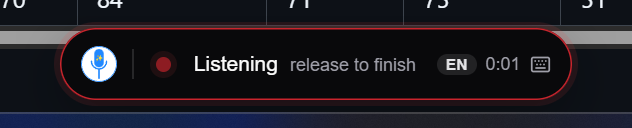
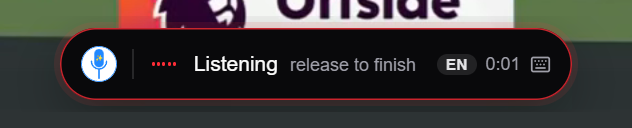
Add the live level meter to the dictation pill (Prompt 4)
ROADMAP "Animated recording indicator". In-process only: no sockets,
no new crates, crate features or Tauri plugins.

- cmd/audio.rs: the capture callback records the loudest absolute
  sample of each buffer into a static AtomicU32 (fetch_max on the f32
  bits, so nothing is lost between reads) for every recording, not
  only live capture. Allocation-free, never blocks.
- start_record spawns a tauri::async_runtime task that every 66 ms
  drains the peak, applies decay_level (max(peak, level * 0.8),
  clamped to 0..1) and emits "dictation-indicator-level" { level } to
  the dictation-indicator window only. Nothing is emitted when the
  indicator is disabled or its window is missing; the task stops on
  stop_record. Four unit tests cover the decay.
- Pill: five bars in the 20 px left slot while recording, heights
  from meterBarHeights (multipliers 0.6/0.85/1/0.85/0.6, rest below
  0.02 at 3 px, centre bar 16 px at full level), 100 ms height
  transition, red ring unchanged. The level resets on every status or
  session change so a new recording never inherits the previous one's
  level. prefers-reduced-motion keeps the pulsing dot instead. vitest
  covers the bar mapping.
- Screenshots: meter at rest, mid (0.45) and loud (0.95) from
  synthetic levels, plus the three recording states re-captured with
  the meter in place of the dot.

diff --git a/desktop/src/components/dictation-indicator.tsx b/desktop/src/components/dictation-indicator.tsx
@@ -4,7 +4,7 @@ import { AlertTriangle, Check, Clipboard, Keyboard, LoaderCircle } from 'lucide-
 import { useEffect, useRef, useState } from 'react'
 import logoUrl from '../../../design/logo.svg?url'
 import { getDictationIndicatorState, type DictationIndicatorState } from '~/lib/dictation-indicator'
-import { badgeText, pillContent, type PillContent, type PillLeft, type PillRing } from '~/lib/indicator-content'
+import { badgeText, isMeterResting, meterBarHeights, pillContent, type PillContent, type PillLeft, type PillRing } from '~/lib/indicator-content'
 
 // The floating status pill (docs/dictation-indicator-plan.md §4). This
 // component only renders what `pillContent` returns — all wording and slot
@@ -52,7 +52,24 @@ const RING_CLASS: Record<PillRing, string> = {
 	amber: 'ring-amber-400/80 shadow-[0_12px_35px_rgba(0,0,0,0.32),0_0_0_4px_rgba(251,191,36,0.12)]',
 }
 
-function LeftSlot({ kind, ring, reducedMotion }: { kind: PillLeft; ring: PillRing; reducedMotion: boolean }) {
+/**
+ * Five bars driven by the Rust level event (~15 Hz). Heights come from
+ * `meterBarHeights`; a 100 ms transition smooths the steps. At rest (below
+ * the threshold) the bars sit short and still.
+ */
+function Meter({ level }: { level: number }) {
+	const heights = meterBarHeights(level)
+	const resting = isMeterResting(level)
+	return (
+		<span className="flex h-4 items-center gap-[1.5px]" aria-hidden="true" data-level={level.toFixed(2)} data-resting={resting}>
+			{heights.map((height, index) => (
+				<span key={index} className="w-0.5 rounded-full bg-red-500 transition-[height] duration-100 ease-out" style={{ height: `${height}px` }} />
+			))}
+		</span>
+	)
+}
+
+function LeftSlot({ kind, ring, reducedMotion, level }: { kind: PillLeft; ring: PillRing; reducedMotion: boolean; level: number }) {
 	const tone = { grey: 'text-zinc-400', green: 'text-emerald-400', red: 'text-red-400', blue: 'text-blue-400', amber: 'text-amber-400' }[ring]
 	switch (kind) {
 		case 'spinner':
@@ -61,13 +78,16 @@ function LeftSlot({ kind, ring, reducedMotion }: { kind: PillLeft; ring: PillRin
 			return <Check className={`h-4 w-4 ${tone}`} strokeWidth={2.5} />
 		case 'warning':
 			return <AlertTriangle className={`h-4 w-4 ${tone}`} />
+		case 'meter':
+			// Reduced motion: no meter, the pulsing dot instead (§4).
+			if (!reducedMotion) return <Meter level={level} />
+			return <span className="h-2.5 w-2.5 animate-pulse rounded-full bg-red-500 shadow-[0_0_0_4px_rgba(239,68,68,0.18)]" />
 		case 'dot':
-			// The pulsing dot is also the reduced-motion fallback for the meter (§4).
 			return <span className="h-2.5 w-2.5 animate-pulse rounded-full bg-red-500 shadow-[0_0_0_4px_rgba(239,68,68,0.18)]" />
 	}
 }
 
-function Layer({ content, reducedMotion, fadingSub }: { content: PillContent; reducedMotion: boolean; fadingSub: string | null }) {
+function Layer({ content, reducedMotion, fadingSub, level }: { content: PillContent; reducedMotion: boolean; fadingSub: string | null; level: number }) {
 	const right = content.right
 	// The hint is shown after a short label ("Listening"); when space is
 	// tight the hint truncates, never the label. Long labels (error text)
@@ -76,7 +96,7 @@ function Layer({ content, reducedMotion, fadingSub }: { content: PillContent; re
 	return (
 		<>
 			<span className="flex w-5 shrink-0 items-center justify-center">
-				<LeftSlot kind={content.left} ring={content.ring} reducedMotion={reducedMotion} />
+				<LeftSlot kind={content.left} ring={content.ring} reducedMotion={reducedMotion} level={level} />
 			</span>
 			<span className="flex min-w-0 items-baseline gap-2 overflow-hidden">
 				<span dir="auto" className={sub ? 'shrink-0' : 'truncate'}>
@@ -112,6 +132,8 @@ export default function DictationIndicator() {
 	const [view, setView] = useState<View | null>(null)
 	const [now, setNow] = useState(() => performance.now())
 	const [hiding, setHiding] = useState(false)
+	// Microphone level 0..1 from Rust (~15 Hz while recording).
+	const [level, setLevel] = useState(0)
 	// Previous content kept on screen for FADE_MS during a cross-fade.
 	const [leaving, setLeaving] = useState<{ key: string; content: PillContent } | null>(null)
 	const lastKeyRef = useRef<string | null>(null)
@@ -142,6 +164,10 @@ export default function DictationIndicator() {
 			log('hide event received')
 			setHiding(true)
 		})
+		// Level meter feed from cmd/audio.rs, sent to this window only.
+		const unlistenLevel = listen<{ level: number }>('dictation-indicator-level', ({ payload }) => {
+			setLevel(typeof payload?.level === 'number' ? payload.level : 0)
+		})
 		unlistenState
 			.then(() => {
 				log('listen registered; fetching initial state')
@@ -155,12 +181,22 @@ export default function DictationIndicator() {
 		return () => {
 			unlistenState.then((stop) => stop())
 			unlistenHide.then((stop) => stop())
+			unlistenLevel.then((stop) => stop())
 		}
 	}, [])
 
 	// Clock for elapsed time and "Transcribing N s…": requestAnimationFrame
 	// throttled to TICK_HZ, only while a timed state is on screen.
 	const status = view?.state.status
+
+	// The meter starts from rest for every recording and never carries a
+	// stale level into the next session: reset on every status or session
+	// change (the pill keeps its last state while hidden, so a new recording
+	// can arrive as recording -> recording with only the session changing).
+	const sessionId = view?.state.sessionId
+	useEffect(() => {
+		setLevel(0)
+	}, [status, sessionId])
 	useEffect(() => {
 		if (status !== 'recording' && status !== 'transcribing') return
 		let frame = 0
@@ -222,11 +258,11 @@ export default function DictationIndicator() {
 				<img src={logoUrl} alt="" className="h-6 w-6 shrink-0 rounded-full" />
 				<span className="h-5 w-px shrink-0 bg-white/12" />
 				<div key={key ?? 'none'} className={`pill-layer flex min-w-0 flex-1 items-center gap-2.5 ${leaving ? 'pill-layer-enter' : ''}`}>
-					<Layer content={content} reducedMotion={reducedMotion} fadingSub={fadingSub} />
+					<Layer content={content} reducedMotion={reducedMotion} fadingSub={fadingSub} level={level} />
 				</div>
 				{leaving ? (
 					<div key={leaving.key} className="pill-layer pill-layer-leave pointer-events-none absolute inset-y-0 left-15 right-3.5 flex items-center gap-2.5" aria-hidden="true">
-						<Layer content={leaving.content} reducedMotion={reducedMotion} fadingSub={null} />
+						<Layer content={leaving.content} reducedMotion={reducedMotion} fadingSub={null} level={0} />
 					</div>
 				) : null}
 			</div>

diff --git a/desktop/src/lib/indicator-content.test.ts b/desktop/src/lib/indicator-content.test.ts
@@ -1,5 +1,35 @@
 import { describe, expect, it } from 'vitest'
-import { HINT_VISIBLE_MS, badgeText, formatElapsed, pillContent } from './indicator-content'
+import { HINT_VISIBLE_MS, METER_MAX_PX, METER_REST_PX, METER_REST_THRESHOLD, badgeText, formatElapsed, isMeterResting, meterBarHeights, pillContent } from './indicator-content'
+
+describe('meterBarHeights', () => {
+	it('rests every bar at the resting height below the threshold', () => {
+		expect(meterBarHeights(0)).toEqual([3, 3, 3, 3, 3])
+		expect(meterBarHeights(METER_REST_THRESHOLD - 0.001)).toEqual([3, 3, 3, 3, 3])
+		expect(isMeterResting(0.019)).toBe(true)
+		expect(isMeterResting(0.02)).toBe(false)
+	})
+
+	it('scales the bars by the per-bar multipliers (0.6, 0.85, 1, 0.85, 0.6)', () => {
+		const full = meterBarHeights(1)
+		expect(full[2]).toBe(METER_MAX_PX)
+		expect(full[0]).toBeCloseTo(METER_REST_PX + (METER_MAX_PX - METER_REST_PX) * 0.6)
+		expect(full[1]).toBeCloseTo(METER_REST_PX + (METER_MAX_PX - METER_REST_PX) * 0.85)
+		expect(full[3]).toBe(full[1])
+		expect(full[4]).toBe(full[0])
+		const half = meterBarHeights(0.5)
+		expect(half[2]).toBeCloseTo(METER_REST_PX + (METER_MAX_PX - METER_REST_PX) * 0.5)
+		expect(half[0]).toBeCloseTo(METER_REST_PX + (METER_MAX_PX - METER_REST_PX) * 0.5 * 0.6)
+		// Monotonic in level.
+		expect(meterBarHeights(0.8)[2]).toBeGreaterThan(half[2])
+	})
+
+	it('clamps out-of-range and non-finite levels', () => {
+		expect(meterBarHeights(1.7)).toEqual(meterBarHeights(1))
+		expect(meterBarHeights(-0.5)).toEqual([3, 3, 3, 3, 3])
+		expect(meterBarHeights(Number.NaN)).toEqual([3, 3, 3, 3, 3])
+		expect(isMeterResting(Number.NaN)).toBe(true)
+	})
+})
 
 // Messages compile with the baseLocale strategy, so these assert English.
 
@@ -34,11 +64,11 @@ describe('pillContent', () => {
 		expect(pillContent({ sessionId: 0, status: 'ready' }, 0).right).toBeNull()
 	})
 
-	it('recording: red dot, badge, elapsed, destination, and the push-to-talk hint for 2 s', () => {
+	it('recording: red ring, level meter, badge, elapsed, destination, and the push-to-talk hint for 2 s', () => {
 		const state = { sessionId: 3, status: 'recording' as const, lang: 'en' as const, output: 'type' as const, hint: 'release' as const, shortcut: 'F9', since: 1000 }
 		expect(pillContent(state, 1000)).toEqual({
 			ring: 'red',
-			left: 'dot',
+			left: 'meter',
 			label: 'Listening',
 			right: { badge: 'en', elapsed: '0:00', destination: 'type' },
 			sub: 'release to finish',

diff --git a/desktop/src/lib/indicator-content.ts b/desktop/src/lib/indicator-content.ts
@@ -6,8 +6,33 @@ import { m } from '~/paraglide/messages.js'
 import type { DictationIndicatorLang, DictationIndicatorState } from '~/lib/dictation-indicator'
 
 export type PillRing = 'grey' | 'green' | 'red' | 'blue' | 'amber'
-/** `dot` is the pulsing recording dot; Prompt 4 adds the live level meter. */
-export type PillLeft = 'spinner' | 'check' | 'warning' | 'dot'
+/**
+ * `meter` is the five-bar live level meter shown while recording; the
+ * component substitutes the pulsing `dot` under prefers-reduced-motion.
+ */
+export type PillLeft = 'spinner' | 'check' | 'warning' | 'dot' | 'meter'
+
+// --- Level meter (plan §4, ROADMAP "Animated recording indicator") -----------
+// Rust emits "dictation-indicator-level" { level: 0..1 } at ~15 Hz while
+// recording. Five bars scale with the level through per-bar multipliers;
+// below METER_REST_THRESHOLD every bar sits at its resting height.
+export const METER_BAR_MULTIPLIERS = [0.6, 0.85, 1, 0.85, 0.6] as const
+export const METER_REST_THRESHOLD = 0.02
+/** Bar height (px) at rest. */
+export const METER_REST_PX = 3
+/** Bar height (px) for the centre bar at full level. */
+export const METER_MAX_PX = 16
+
+/** Height in px of each of the five bars for a level in 0..1. */
+export function meterBarHeights(level: number): number[] {
+	const clamped = Number.isFinite(level) ? Math.min(1, Math.max(0, level)) : 0
+	if (clamped < METER_REST_THRESHOLD) return METER_BAR_MULTIPLIERS.map(() => METER_REST_PX)
+	return METER_BAR_MULTIPLIERS.map((multiplier) => METER_REST_PX + (METER_MAX_PX - METER_REST_PX) * clamped * multiplier)
+}
+
+export function isMeterResting(level: number): boolean {
+	return !Number.isFinite(level) || level < METER_REST_THRESHOLD
+}
 
 export interface PillRight {
 	/** Language badge: "EN" or "ع". Never mirrors in RTL. */
@@ -66,7 +91,7 @@ export function pillContent(state: PillInput, now: number): PillContent {
 				if (state.hint === 'release') sub = m.dictationIndicatorHintRelease()
 				else if (state.hint === 'toggle' && state.shortcut) sub = m.dictationIndicatorHintToggle({ shortcut: state.shortcut })
 			}
-			return { ring: 'red', left: 'dot', label: m.dictationIndicatorListening(), right, sub }
+			return { ring: 'red', left: 'meter', label: m.dictationIndicatorListening(), right, sub }
 		}
 		case 'transcribing': {
 			// `message` is the transient "Still transcribing — wait" hint (a

diff --git a/desktop/src-tauri/src/cmd/audio.rs b/desktop/src-tauri/src/cmd/audio.rs
@@ -8,7 +8,9 @@ use serde_json::json;
 use std::fs::File;
 use std::io::BufWriter;
 use std::path::{Path, PathBuf};
+use std::sync::atomic::{AtomicBool, AtomicU32, Ordering};
 use std::sync::{Arc, Mutex};
+use std::time::Duration;
 use tauri::{AppHandle, Emitter, Listener, Manager};
 
 use crate::error::LogError;
@@ -50,6 +52,40 @@ struct LiveCapture {
 type LiveCaptureHandle = Arc<Mutex<Option<LiveCapture>>>;
 
 static LIVE_CAPTURE: Lazy<LiveCaptureHandle> = Lazy::new(|| Arc::new(Mutex::new(None)));
+
+/// Loudest absolute sample (as `f32::to_bits`) seen by the audio callback since
+/// the level meter last read it. Written lock-free from the callback for every
+/// recording (not only live capture), drained every `LEVEL_TICK_MS` by the
+/// meter task in `start_record`. Feeds the indicator's five bars — status
+/// only, in-process only (ROADMAP "Animated recording indicator").
+static INPUT_PEAK: AtomicU32 = AtomicU32::new(0);
+/// Meter refresh period (~15 Hz, plan §4).
+const LEVEL_TICK_MS: u64 = 66;
+/// Per-tick decay when the new peak is lower than the current level.
+const LEVEL_DECAY: f32 = 0.8;
+/// Emitted to the indicator window only.
+const LEVEL_EVENT: &str = "dictation-indicator-level";
+
+/// Next meter level: jump up to a louder peak at once, fall back at
+/// `LEVEL_DECAY` per tick otherwise. Always within 0..=1.
+pub(crate) fn decay_level(level: f32, peak: f32) -> f32 {
+    peak.max(level * LEVEL_DECAY).clamp(0.0, 1.0)
+}
+
+/// Records the loudest sample of one callback buffer. Allocation-free and
+/// never blocks (same rule as `write_input_data`). Non-negative f32 bit
+/// patterns order like their values, so `fetch_max` keeps the loudest buffer
+/// since the meter's last `swap(0)`.
+fn note_input_peak<T>(input: &[T])
+where
+    T: Sample + Copy,
+    f32: FromSample<T>,
+{
+    let peak = input
+        .iter()
+        .fold(0.0f32, |acc, &sample| acc.max(f32::from_sample(sample).abs()));
+    INPUT_PEAK.fetch_max(peak.to_bits(), Ordering::Relaxed);
+}
 
 fn clear_live_capture() {
     if let Ok(mut guard) = LIVE_CAPTURE.lock() {
@@ -127,6 +163,7 @@ pub async fn start_record(
 
     let live_enabled = capture_live.unwrap_or(false);
     clear_live_capture();
+    INPUT_PEAK.store(0, Ordering::Relaxed);
 
     for (device_index, device) in devices.into_iter().enumerate() {
         tracing::debug!("Recording from device: {}", device.name);
@@ -179,8 +216,39 @@ pub async fn start_record(
         tracing::debug!("Stream handle created");
     }
 
+    // Level meter: every LEVEL_TICK_MS drain the callback's peak, decay, and
+    // send the level to the indicator window only. Nothing is sent when the
+    // indicator is disabled or its window does not exist. Stops on stop_record.
+    let meter_stop = Arc::new(AtomicBool::new(false));
+    {
+        let stop = meter_stop.clone();
+        let app = app_handle.clone();
+        tauri::async_runtime::spawn(async move {
+            let mut level = 0.0f32;
+            while !stop.load(Ordering::Relaxed) {
+                tokio::time::sleep(Duration::from_millis(LEVEL_TICK_MS)).await;
+                if stop.load(Ordering::Relaxed) {
+                    break;
+                }
+                let peak = f32::from_bits(INPUT_PEAK.swap(0, Ordering::Relaxed));
+                level = decay_level(level, peak);
+                if !crate::dictation_indicator::is_enabled(&app)
+                    || app.get_webview_window(crate::dictation_indicator::WINDOW_LABEL).is_none()
+                {
+                    continue;
+                }
+                let _ = app.emit_to(
+                    crate::dictation_indicator::WINDOW_LABEL,
+                    LEVEL_EVENT,
+                    json!({ "level": level }),
+                );
+            }
+        });
+    }
+
     let app_handle_clone = app_handle.clone();
     app_handle.once("stop_record", move |_event| {
+        meter_stop.store(true, Ordering::Relaxed);
         clear_live_capture();
         for (i, stream_handle) in stream_handles.iter().enumerate() {
             let stream_handle = stream_handle.lock().map_err(|e| eyre!("{:?}", e)).log_error();
@@ -319,6 +387,7 @@ where
         config.into(),
         move |data: &[T], _: &_| {
             write_input_data::<T, T>(data, &writer);
+            note_input_peak(data);
             if let Some(ref live) = live {
                 append_live_samples(data, live);
             }
@@ -511,5 +580,45 @@ mod tests {
         let read: Vec<f32> = reader.samples::<f32>().map(|sample| sample.unwrap()).collect();
         assert_eq!(read, samples);
         let _ = std::fs::remove_file(&path);
+    }
+}
+
+#[cfg(test)]
+mod level_meter_tests {
+    use super::{decay_level, LEVEL_DECAY};
+
+    #[test]
+    fn louder_peak_jumps_up_immediately() {
+        assert_eq!(decay_level(0.1, 0.9), 0.9);
+        assert_eq!(decay_level(0.0, 0.5), 0.5);
+    }
+
+    #[test]
+    fn quieter_peak_decays_by_the_factor() {
+        assert!((decay_level(1.0, 0.0) - LEVEL_DECAY).abs() < 1e-6);
+        assert!((decay_level(0.5, 0.1) - 0.4).abs() < 1e-6);
+        // Decay wins only while it is above the new peak.
+        assert!((decay_level(0.5, 0.45) - 0.45).abs() < 1e-6);
+    }
+
+    #[test]
+    fn silence_decays_to_rest_within_a_second() {
+        // 15 ticks of silence (~1 s at 66 ms) from full scale end below the
+        // meter's 0.02 resting threshold.
+        let mut level = 1.0f32;
+        for _ in 0..15 {
+            level = decay_level(level, 0.0);
+        }
+        assert!(level < 0.04, "level after 1 s of silence: {level}");
+        for _ in 0..5 {
+            level = decay_level(level, 0.0);
+        }
+        assert!(level < 0.02, "level after ~1.3 s of silence: {level}");
+    }
+
+    #[test]
+    fn level_is_clamped_to_unit_range() {
+        assert_eq!(decay_level(0.0, 1.7), 1.0);
+        assert_eq!(decay_level(-1.0, -0.5), 0.0);
     }
 }

diff --git a/desktop/src-tauri/src/dictation_indicator.rs b/desktop/src-tauri/src/dictation_indicator.rs
@@ -6,7 +6,8 @@ use tauri::webview::PageLoadEvent;
 use tauri::{Emitter, Manager, PhysicalPosition, PhysicalSize, WebviewUrl, WebviewWindow, WebviewWindowBuilder};
 use tauri_plugin_store::StoreExt;
 
-const WINDOW_LABEL: &str = "dictation-indicator";
+/// Label of the pill window; `cmd::audio` targets it with the level event.
+pub(crate) const WINDOW_LABEL: &str = "dictation-indicator";
 const ENABLED_KEY: &str = "dictation_indicator_enabled";
 // Logical px. The pill inside is content-sized and centred, so the window is
 // only a transparent, click-through bound; 400 fits "Listening · release to
